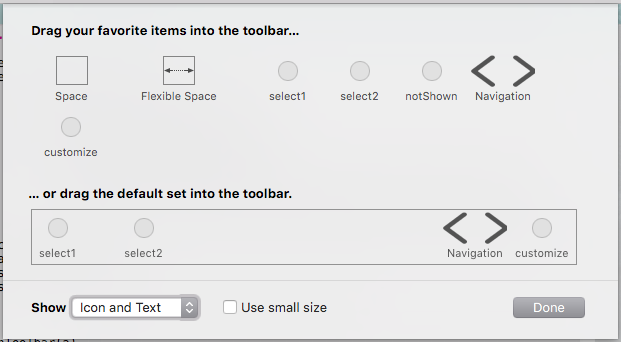
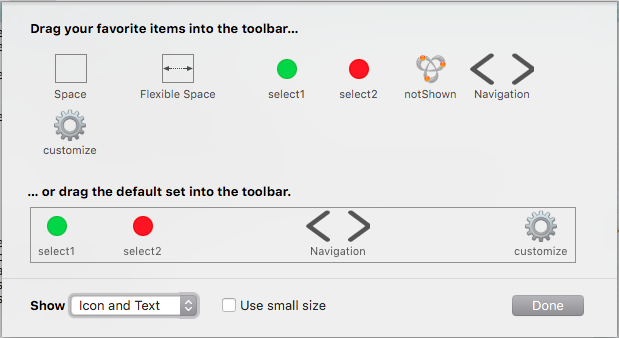
better example

diff --git a/toolbar/README.md b/toolbar/README.md
@@ -18,17 +18,17 @@ A basic, example:
 ~~~lua
 t = require("hs._asm.toolbar")
 a = t.new("myConsole", {
-        { id = "select1", selectable = true },
+        { id = "select1", selectable = true, image = hs.image.imageFromName("NSStatusAvailable") },
         { id = "NSToolbarSpaceItem" },
-        { id = "select2", selectable = true },
-        { id = "notShown", default = false },
-        { id = "NSToolbarFlexibleSpaceItem" },
+        { id = "select2", selectable = true, image = hs.image.imageFromName("NSStatusUnavailable") },
+        { id = "notShown", default = false, image = hs.image.imageFromName("NSBonjour") },
         { id = "NSToolbarFlexibleSpaceItem" },
         { id = "navGroup", label = "Navigation",
             { id = "navLeft", image = hs.image.imageFromName("NSGoLeftTemplate") },
             { id = "navRight", image = hs.image.imageFromName("NSGoRightTemplate") }
         },
-        { id = "cust", label = "customize", fn = function(t, w, i) t:customizePanel() end }
+        { id = "NSToolbarFlexibleSpaceItem" },
+        { id = "cust", label = "customize", fn = function(t, w, i) t:customizePanel() end, image = hs.image.imageFromName("NSAdvanced") }
     }):canCustomize(true)
       :autosaves(true)
       :selectedItem("select2")
